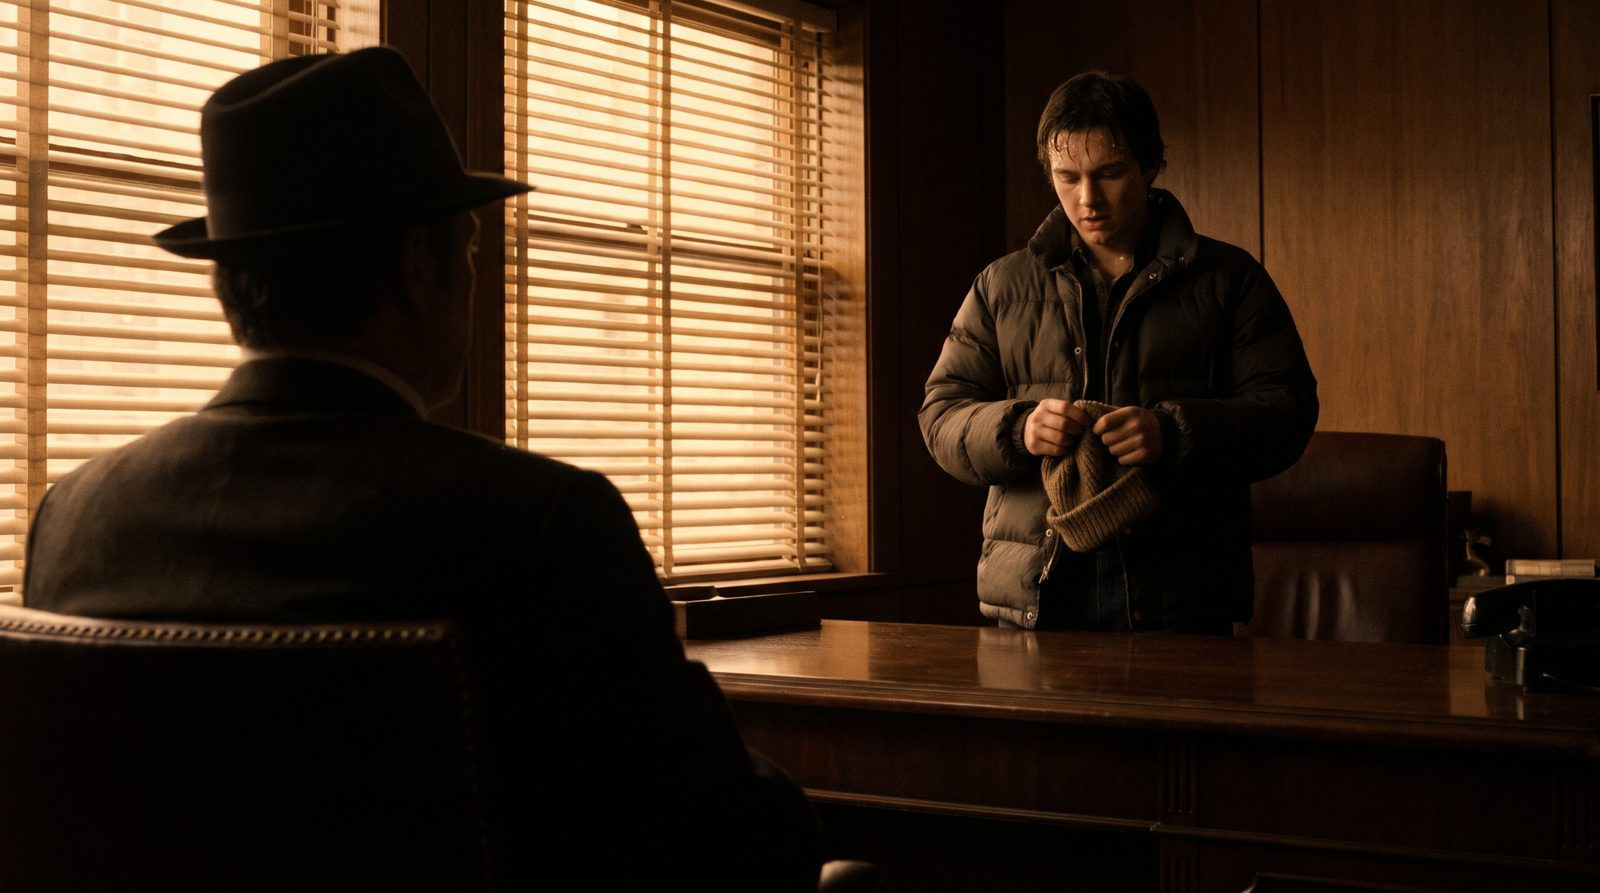
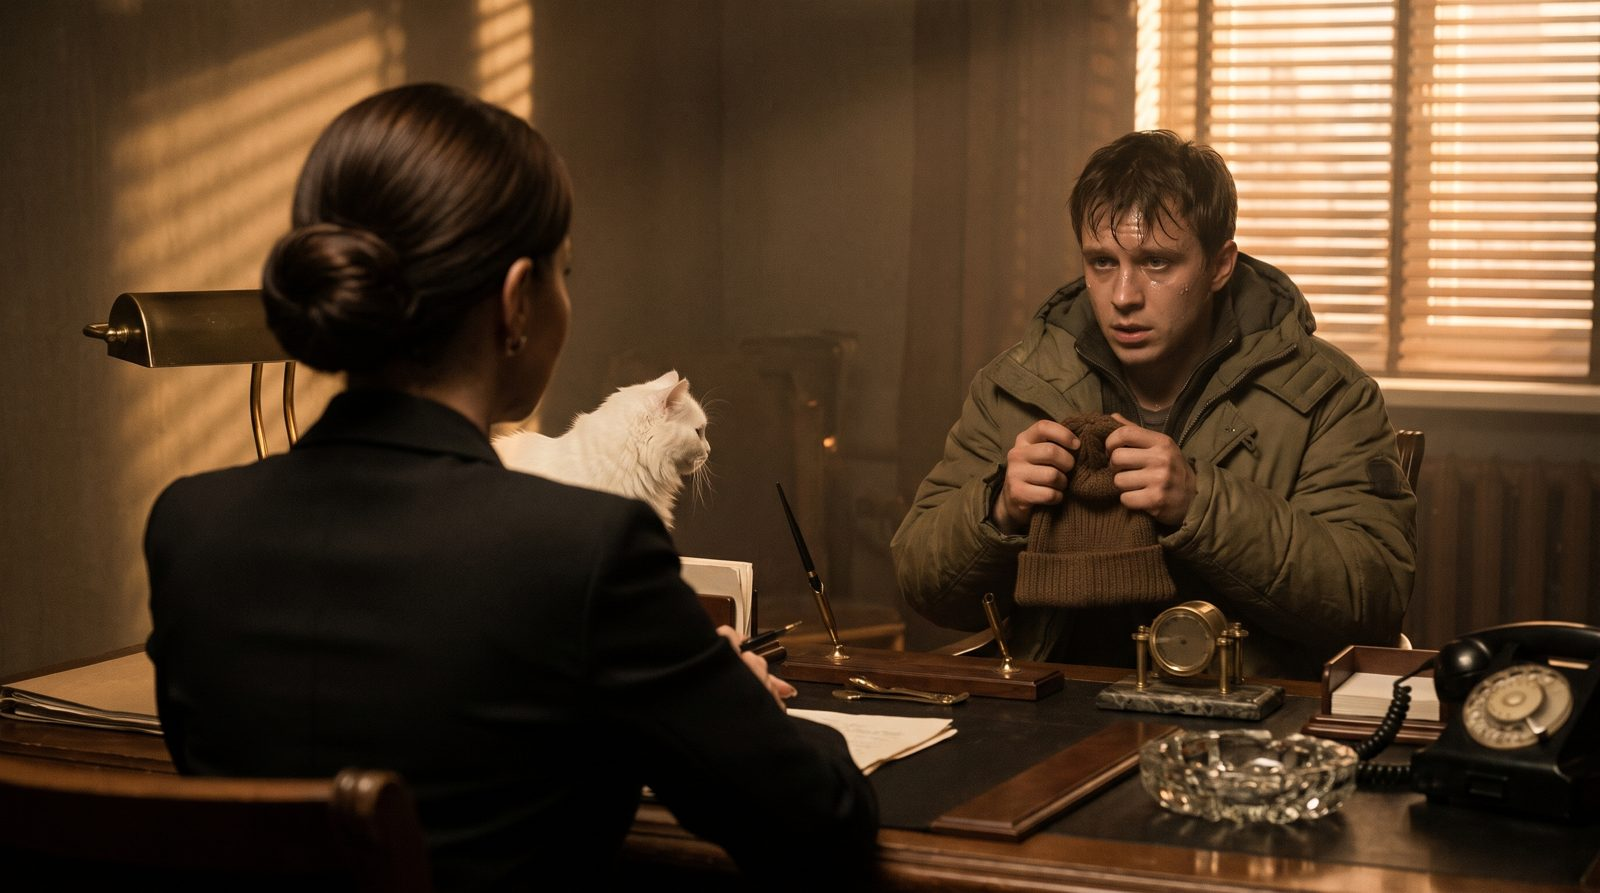
Крёстная v2: кадры

diff --git a/cheloveki-krestnaya-raskadrovka/index.html b/cheloveki-krestnaya-raskadrovka/index.html
@@ -4,4 +4,4 @@ article{display:grid;grid-template-columns:1.4fr 1fr;gap:20px;background:#171722
 .ph{display:flex;align-items:center;justify-content:center;background:#222;color:#888}.t{padding:16px 18px 16px 0}h2{margin:6px 0;font-size:24px;color:#d9a441}.q{color:#ffd1e6;font-style:italic}
 @media(max-width:760px){article{grid-template-columns:1fr}.t{padding:0 16px 16px}}</style></head><body><main>
 <h1>«Крёстная мать»: раскадровка</h1><p class="lead">Пародия для ИИ-кемпа, около 60 секунд, 8 сцен. Кадры здесь эскизы: показывают настроение и свет.</p>
-<article><img src="s1.jpg" alt="Сцена 1"><div class="t"><b>Сцена 1</b> · 0-6 с<h2>Кабинет Крёстной, 15 декабря</h2><p>Тёмный кабинет, жалюзи, полосы света. За окном снег и гирлянды, на столе календарь «15 декабря». Настя в кресле, на коленях белый кот.</p><p class="q">Тишина. Тикают часы.</p></div></article><article><div class="ph">кадр генерируется</div><div class="t"><b>Сцена 2</b> · 6-14 с<h2>Проситель</h2><p>На переднем плане спиной к нам Настя за столом: тёмный пучок, чёрный костюм. Напротив ивент-менеджер в пуховике мнёт шапку.</p><p class="q">Менеджер: «Крёстная… У меня корпоратив двадцать восьмого. Пятьсот гостей. Мне нужен Дед Мороз».</p></div></article><article><img src="s3.jpg" alt="Сцена 3"><div class="t"><b>Сцена 3</b> · 14-26 с<h2>Без уважения</h2><p>Настя гладит кота и не поднимает глаз. Медленный наезд камеры.</p><p class="q">Настя: «Ты приходишь ко мне пятнадцатого декабря… и просишь Деда Мороза. На двадцать восьмое. На самую горячую дату года. (пауза) Но ты делаешь это без уважения».</p></div></article><article><img src="s4.jpg" alt="Сцена 4"><div class="t"><b>Сцена 4</b> · 26-34 с<h2>Перстень</h2><p>Пауза. Настя протягивает руку. Менеджер склоняется и целует перстень.</p><p class="q">Настя: «Ладно. Я пойду тебе навстречу». Менеджер (целуя перстень): «Спасибо, Крёстная».</p></div></article><article><div class="ph">кадр генерируется</div><div class="t"><b>Сцена 5</b> · 34-38 с<h2>Поворот: «Так было раньше»</h2><p>Кадр с перстнем замирает, сепия выцветает, плёнка рвётся и сгорает. Сквозь дыру бьёт яркий дневной свет.</p><p class="q">Титр: «Так было раньше». Звук: треск плёнки, скрип пластинки.</p></div></article><article><div class="ph">кадр генерируется</div><div class="t"><b>Сцена 6</b> · 38-46 с<h2>Так стало: одна кнопка</h2><p>Тот же менеджер, но в ярком современном офисе с ёлкой, в свитере с оленями. Открывает на телефоне «Человеков», жмёт «Найти Деда Мороза». На экране карточка: «Дед Мороз, бас, ★4.9, 28.12, 19:00» → зелёная галочка «Подтверждено».</p><p class="q">Голос: «Теперь так». Звук: «дзынь».</p></div></article><article><div class="ph">кадр генерируется</div><div class="t"><b>Сцена 7</b> · 46-52 с<h2>Дед Мороз появился</h2><p>Вихрь снежинок, и рядом с менеджером возникает Дед Мороз в синем расшитом кафтане. Подмигивает, даёт пять.</p><p class="q">Дед Мороз: «Подтверждён!»</p></div></article><article><div class="ph">кадр генерируется</div><div class="t"><b>Сцена 8</b> · 52-60 с<h2>Финал</h2><p>Снова Настя, но уже в светлом кабинете, в розовом костюме, с тем же белым котом. Смотрит в камеру, улыбается. Логотип.</p><p class="q">Настя: «Уважение теперь в одну кнопку». Титр: «Человеки. Дед Мороз, аниматоры, промоутеры. Бронь в один клик».</p></div></article></main></body></html>
+<article><img src="s1.jpg" alt="Сцена 1"><div class="t"><b>Сцена 1</b> · 0-6 с<h2>Кабинет Крёстной, 15 декабря</h2><p>Тёмный кабинет, жалюзи, полосы света. За окном снег и гирлянды, на столе календарь «15 декабря». Настя в кресле, на коленях белый кот.</p><p class="q">Тишина. Тикают часы.</p></div></article><article><img src="s2.jpg" alt="Сцена 2"><div class="t"><b>Сцена 2</b> · 6-14 с<h2>Проситель</h2><p>На переднем плане спиной к нам Настя за столом: тёмный пучок, чёрный костюм. Напротив ивент-менеджер в пуховике мнёт шапку.</p><p class="q">Менеджер: «Крёстная… У меня корпоратив двадцать восьмого. Пятьсот гостей. Мне нужен Дед Мороз».</p></div></article><article><img src="s3.jpg" alt="Сцена 3"><div class="t"><b>Сцена 3</b> · 14-26 с<h2>Без уважения</h2><p>Настя гладит кота и не поднимает глаз. Медленный наезд камеры.</p><p class="q">Настя: «Ты приходишь ко мне пятнадцатого декабря… и просишь Деда Мороза. На двадцать восьмое. На самую горячую дату года. (пауза) Но ты делаешь это без уважения».</p></div></article><article><img src="s4.jpg" alt="Сцена 4"><div class="t"><b>Сцена 4</b> · 26-34 с<h2>Перстень</h2><p>Пауза. Настя протягивает руку. Менеджер склоняется и целует перстень.</p><p class="q">Настя: «Ладно. Я пойду тебе навстречу». Менеджер (целуя перстень): «Спасибо, Крёстная».</p></div></article><article><img src="s5.jpg" alt="Сцена 5"><div class="t"><b>Сцена 5</b> · 34-38 с<h2>Поворот: «Так было раньше»</h2><p>Кадр с перстнем замирает, сепия выцветает, плёнка рвётся и сгорает. Сквозь дыру бьёт яркий дневной свет.</p><p class="q">Титр: «Так было раньше». Звук: треск плёнки, скрип пластинки.</p></div></article><article><img src="s6.jpg" alt="Сцена 6"><div class="t"><b>Сцена 6</b> · 38-46 с<h2>Так стало: одна кнопка</h2><p>Тот же менеджер, но в ярком современном офисе с ёлкой, в свитере с оленями. Открывает на телефоне «Человеков», жмёт «Найти Деда Мороза». На экране карточка: «Дед Мороз, бас, ★4.9, 28.12, 19:00» → зелёная галочка «Подтверждено».</p><p class="q">Голос: «Теперь так». Звук: «дзынь».</p></div></article><article><img src="s7.jpg" alt="Сцена 7"><div class="t"><b>Сцена 7</b> · 46-52 с<h2>Дед Мороз появился</h2><p>Вихрь снежинок, и рядом с менеджером возникает Дед Мороз в синем расшитом кафтане. Подмигивает, даёт пять.</p><p class="q">Дед Мороз: «Подтверждён!»</p></div></article><article><img src="s8.jpg" alt="Сцена 8"><div class="t"><b>Сцена 8</b> · 52-60 с<h2>Финал</h2><p>Снова Настя, но уже в светлом кабинете, в розовом костюме, с тем же белым котом. Смотрит в камеру, улыбается. Логотип.</p><p class="q">Настя: «Уважение теперь в одну кнопку». Титр: «Человеки. Дед Мороз, аниматоры, промоутеры. Бронь в один клик».</p></div></article></main></body></html>
